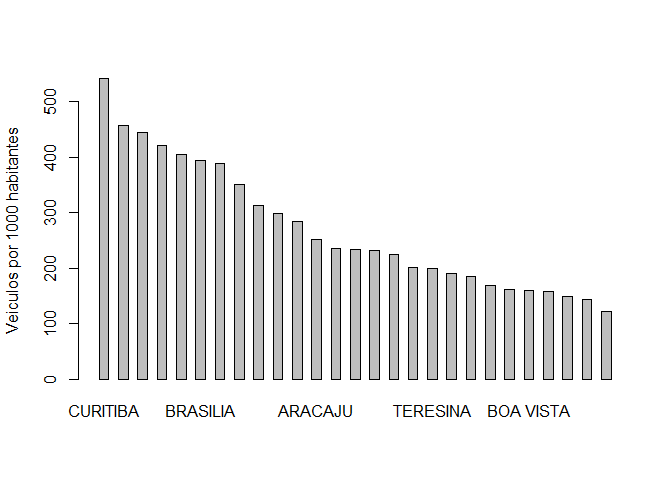
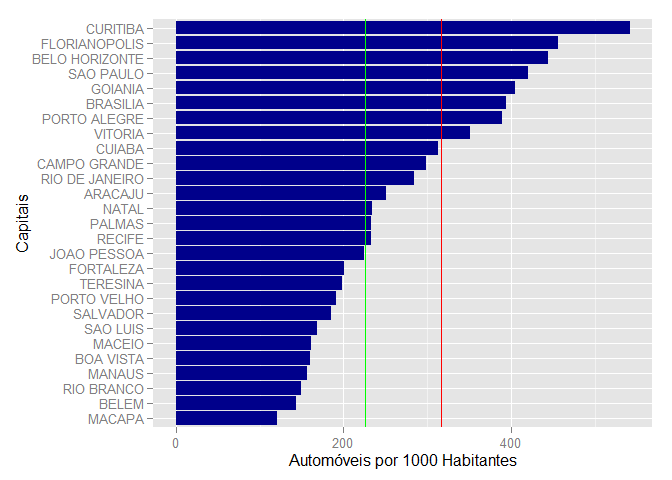
Melhorando os gráficos

diff --git a/FrotaPop.html b/FrotaPop.html
@@ -63,7 +63,7 @@ img {
 <div id="header">
 <h1 class="title">População e Frota de Veículos</h1>
 <h4 class="author"><em>Mario Azevedo</em></h4>
-<h4 class="date"><em>Sunday, May 24, 2015</em></h4>
+<h4 class="date"><em>Domingo, 24/05/2015</em></h4>
 </div>
 
 
@@ -73,10 +73,13 @@ img {
 library(dplyr)
 library(stringr)
 library(knitr)
+library(ggplot2)
+library(scales)
 options(scipen=1, digits=2, width=105)</code></pre>
 </div>
 <div id="lendo-os-dados" class="section level3">
 <h3>Lendo os dados</h3>
+<p>Os dados da frota são de dezembro de 2013 (DENATRAN). Os dados de população são de outubro de 2013 (estimativa do IBGE).</p>
 <pre class="r"><code>dados &lt;- fread('FrotaBR122013.csv',sep=';')
 estados &lt;- fread('estados.csv',sep=';')
 estados &lt;- mutate(estados,CAPITAL=str_trim(CAPITAL))
@@ -338,7 +341,13 @@ kable(tabela)</code></pre>
         select(UF,MUNICIPIO,POPULACAO,TOTAL,AUTOMOVEL,APM,MOTOCICLETA,MPM) %&gt;%
         arrange(desc(APM))
 
-kable(tabela)</code></pre>
+APMcap &lt;- 1000 * sum(tabela$AUTOMOVEL)/sum(tabela$POPULACAO)
+APMcap</code></pre>
+<pre><code>## [1] 317</code></pre>
+<pre class="r"><code>APMbr &lt;- 1000 * sum(dados$AUTOMOVEL)/sum(dados$POPULACAO)
+APMbr</code></pre>
+<pre><code>## [1] 226</code></pre>
+<pre class="r"><code>kable(tabela)</code></pre>
 <table>
 <thead>
 <tr class="header">
@@ -625,9 +634,15 @@ kable(tabela)</code></pre>
 </tr>
 </tbody>
 </table>
-<pre class="r"><code>barplot(tabela$APM,names.arg=tabela$MUNICIPIO,
-        ylab='Veiculos por 1000 habitantes',space=1)</code></pre>
[1 lines of base64/hex data omitted]
+<pre class="r"><code>ordem &lt;- reorder(tabela$MUNICIPIO,tabela$APM)
+ggplot(data=tabela, aes(x=ordem, y=APM)) +
+        geom_bar(stat=&quot;identity&quot;,fill=&quot;darkblue&quot;) +
+        coord_flip() +
+        geom_hline(aes(yintercept=APMcap),color=&quot;red&quot;) +
+        geom_hline(aes(yintercept=APMbr),color=&quot;green&quot;) +
+        xlab(&quot;Capitais&quot;) +
+        ylab(&quot;Automóveis por 1000 Habitantes&quot;)</code></pre>
[1 lines of base64/hex data omitted]
 <ol start="3" style="list-style-type: decimal">
 <li>População e frota total, de automóveis e motocicletas das regiões</li>
 </ol>
@@ -640,7 +655,8 @@ kable(tabela)</code></pre>
         mutate(MPM = 1000 * Motocicletas/Populacao) %&gt;%
         select(REGIAO,Populacao,Veiculos,Automoveis,APM,Motocicletas,MPM) %&gt;%
         arrange(desc(APM))
-        
+
+APMbr &lt;- 1000 * sum(tabela$Automoveis)/sum(tabela$Populacao)
 kable(tabela)</code></pre>
 <table>
 <thead>
@@ -702,9 +718,13 @@ kable(tabela)</code></pre>
 </tr>
 </tbody>
 </table>
-<pre class="r"><code>barplot(tabela$APM,names.arg=tabela$REGIAO,
-        ylab='Veiculos por 1000 habitantes')</code></pre>
[1 lines of base64/hex data omitted]
+<pre class="r"><code>ordem &lt;- reorder(tabela$REGIAO,tabela$APM)
+ggplot(data=tabela, aes(x=ordem, y=APM)) +
+        geom_bar(stat=&quot;identity&quot;,fill=&quot;darkblue&quot;) +
+        geom_hline(aes(yintercept=APMbr),color=&quot;green&quot;) +
+        xlab(&quot;Regiões&quot;) +
+        ylab(&quot;Automóveis por 1000 Habitantes&quot;)</code></pre>
[1 lines of base64/hex data omitted]
 </div>
 
 

diff --git a/FrotaPop.md b/FrotaPop.md
@@ -1,6 +1,6 @@
 # População e Frota de Veículos
 Mario Azevedo  
-Sunday, May 24, 2015  
+Domingo, 24/05/2015  
 
 ###Carregando as bibliotecas necessárias
 
@@ -10,10 +10,15 @@ library(data.table)
 library(dplyr)
 library(stringr)
 library(knitr)
+library(ggplot2)
+library(scales)
 options(scipen=1, digits=2, width=105)
 ```
 
 ###Lendo os dados
+
+Os dados da frota são de dezembro de 2013 (DENATRAN). Os dados de população são de outubro de 2013 (estimativa do IBGE).
+
 
 
 ```r
@@ -85,6 +90,24 @@ tabela <- filter(dados, str_c(UF,MUNICIPIO,sep='-') %in%
         select(UF,MUNICIPIO,POPULACAO,TOTAL,AUTOMOVEL,APM,MOTOCICLETA,MPM) %>%
         arrange(desc(APM))
 
+APMcap <- 1000 * sum(tabela$AUTOMOVEL)/sum(tabela$POPULACAO)
+APMcap
+```
+
+```
+## [1] 317
+```
+
+```r
+APMbr <- 1000 * sum(dados$AUTOMOVEL)/sum(dados$POPULACAO)
+APMbr
+```
+
+```
+## [1] 226
+```
+
+```r
 kable(tabela)
 ```
 
@@ -121,8 +144,14 @@ PA   BELEM               1425922    373846      204801   144         88211    62
 AP   MACAPA               437256    121519       52922   121         38673    88
 
 ```r
-barplot(tabela$APM,names.arg=tabela$MUNICIPIO,
-        ylab='Veiculos por 1000 habitantes',space=1)
+ordem <- reorder(tabela$MUNICIPIO,tabela$APM)
+ggplot(data=tabela, aes(x=ordem, y=APM)) +
+        geom_bar(stat="identity",fill="darkblue") +
+        coord_flip() +
+        geom_hline(aes(yintercept=APMcap),color="red") +
+        geom_hline(aes(yintercept=APMbr),color="green") +
+        xlab("Capitais") +
+        ylab("Automóveis por 1000 Habitantes")
 ```
 
 ![](FrotaPop_files/figure-html/unnamed-chunk-4-1.png) 
@@ -140,7 +169,8 @@ tabela <- group_by(dados,REGIAO) %>%
         mutate(MPM = 1000 * Motocicletas/Populacao) %>%
         select(REGIAO,Populacao,Veiculos,Automoveis,APM,Motocicletas,MPM) %>%
         arrange(desc(APM))
-        
+
+APMbr <- 1000 * sum(tabela$Automoveis)/sum(tabela$Populacao)
 kable(tabela)
 ```
 
@@ -155,8 +185,12 @@ NE         55794707   13126842      5352291    96        4985338    89
 N          17013559    3938475      1338252    79        1482337    87
 
 ```r
-barplot(tabela$APM,names.arg=tabela$REGIAO,
-        ylab='Veiculos por 1000 habitantes')
+ordem <- reorder(tabela$REGIAO,tabela$APM)
+ggplot(data=tabela, aes(x=ordem, y=APM)) +
+        geom_bar(stat="identity",fill="darkblue") +
+        geom_hline(aes(yintercept=APMbr),color="green") +
+        xlab("Regiões") +
+        ylab("Automóveis por 1000 Habitantes")
 ```
 
 ![](FrotaPop_files/figure-html/unnamed-chunk-5-1.png) 
